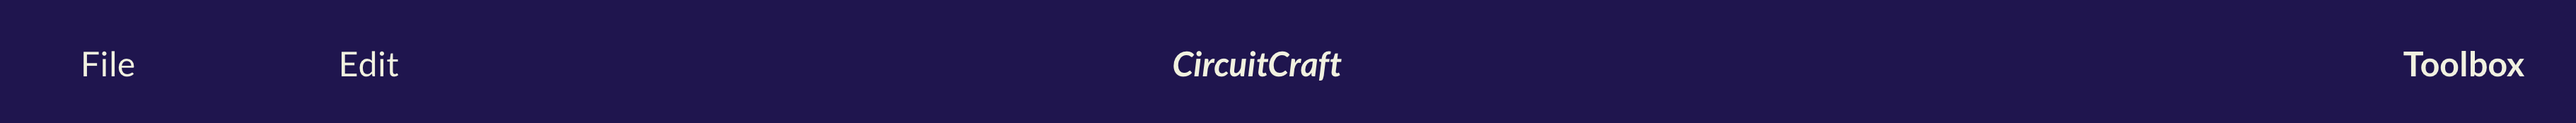
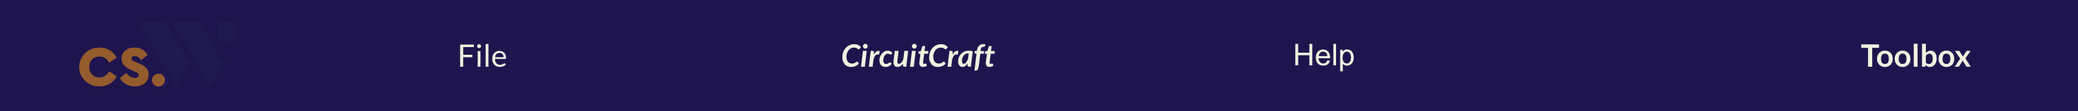
Structure styling helppage

diff --git a/public/helppage/helppage.html b/public/helppage/helppage.html
@@ -2,7 +2,7 @@
 <html lang="en" class="fancy">
 <head>
     <meta charset="UTF-8">
-    <title>WebARM: documentation</title>
+    <title>CircuitCraft]: documentation</title>
     <link rel="stylesheet" href="helppage_style.css">
     <link rel="stylesheet" href="helppage_highlighting.css">
 
@@ -79,75 +79,60 @@
                     In CircuitCraft, the page consists of three different areas:
                 </p>
                 <ol>
-                    <li>Menubar: Purple area at the top of the page<br>
-                        <img src="assests/menubar.png">
+                    <li><i>Menubar</i>: The <i>purple area</i> located at the very top of the page. It provides easy access to File operations and contains the link to CircuitCraft's help documentation page.<br><br>
+                        To interact with the dropdown menu: Click 'File' to open the menu. Click 'File' again to close the menu.<br>
+                        <img class="margin-top" src="assests/menubar.png" alt="Image of Menubar">
                     </li>
-                    <li>Canvas: Blue area to the left under the menubar<br>
-                        <img src="assests/canvas.png">
+                    <li><i>Canvas</i>: The <i>blue area</i> located directly beneath the MenuBar and to the left side of the screen.
+                        This is where you will draw your diagram. It supports interactive features such as moving and connecting elements to create circuits.<br>
+                        <img class="canvas_img margin-top" src="assests/canvas.png" alt="Image of the Canvas">
+
+                        <h4>Navigating around the Canvas</h4>
+                        <ul>
+                            <li>To move around the Canvas, click and drag on the canvas.<br>
+                                <video width="340" height="260" controls>
+                                    <source src="assests/move_canvas.mp4" type="video/mp4">
+                                </video>
+                            </li>
+                            <div class="zoom">
+                                <li class="margin-top">To zoom in and out of the Canvas, scroll up or down on mouse or pinch in and out on trackpads.
+                                </li>
+                                <video width="180" height="310" controls>
+                                    <source src="assests/zoom.mp4" type="video/mp4">
+                                </video>
+                            </div>
+                        </ul>
                     </li>
-                    <li>Toolbox: Yellow area to the right under the menubar<br>
-                        <img class="height" src="assests/toolbox.png">
+                    <li><i>Toolbox</i>: The <i>yellow area</i> located to the right of the screen, directly beneath the Menubar. 
+                        It contains a variety of interactable objects, including gates, junctions, inputs, outputs, and labels. <br><br>
+                        To interact with the Toolbox: Click on these elements to load them onto the Canvas to design and build your circuit diagrams.
+                        <br>
+                        <img class="height margin-top" src="assests/toolbox.png">
                     </li>
                 </ol>
 
-                <h3>Menubar</h3>
-                <p>
-                    Contains dropdown menu for 'File' and a link to the help page.
-                </p>
-
-                <p>
-                    To interact with the dropdown menu: Click 'File' to open the menu. Click 'File' again to close the menu.
-                </p>
-
-                <h3>Canvas</h3>
-                <p>
-                    This is where you will draw your diagram.
-                </p>
-
-                <h4>Navigating Around the Canvas</h4>
-                <ul>
-                    <li>To move around the Canvas: click and drag on the canvas<br>
-                        <video width="320" height="240" controls>
-                            <source src="assests/move_canvas.mp4" type="video/mp4">
-                        </video>
-                    </li>
-                    <li>To zoom in and out of the Canvas: scroll up or down on mouse or pinch in and out on trackpads
-                        <video width="220" height="320" controls>
-                            <source src="assests/zoom.mp4" type="video/mp4">
-                        </video>
-                    </li>
-                </ul>
-
-                <h3>Toolbox</h3>
-                <p>
-                    This contains interactable objects that are in the form of gates, junctions, inputs, outputs, and labels.
-                </p>
-
                 <div class="indented">
-                    <h4>Gates</h4>
-                    <p>
-                        <img src="assests/gates.png">
-                    </p>
-
-                    <h4>Junction</h4>
-                    <p>
-                        <img src="assests/junction.png">
-                    </p>
-
-                    <h4>Inputs, Outputs, and Labels</h4>
-                    <p>
-                        <img src="assests/editable_nodes.png">
-                    </p>
+                    <ol type="a">
+                        <li><i>Gates</i><br>
+                            <img class="margin-top" src="assests/gates.png">
+                        </li>
+                        <li><i>Junction</i><br>
+                            <img class="margin-top" src="assests/junction.png">
+                        </li>
+                        <li style="text-align: left;"><i>Inputs, Outputs, and Labels</i><br>
+                            <img class="margin-top" src="assests/editable_nodes.png">
+                        </li>
+                    </ol>
                 </div>
             </div>
 
             <div class="problem">
-                <div class="title">Adding and Removing from the Canvas</div>
+                <div class="title">Adding and removing canvas elements</div>
 
                 <h3>Adding</h3>
                 <p>
-                    To add objects to the canvas, click the object you want to add: gates, junctions, inputs, outputs, and labels from the toolbox. They will then add to the canvas, if you add multiple objects at a single time, they will overlap and hide behind each other.<br>
-                    <video width="320" height="240" controls>
+                    To add objects to the canvas, click on the item you want to add, such as gates, junctions, inputs, outputs, and labels from the toolbox. The selected object will then appear on the Canvas. Note that if you add multiple objects simultaneously, they will overlap, as they will stack on top of each other.<br>
+                    <video class="margin-top" width="320" height="240" controls>
                         <source src="assests/adding.mp4" type="video/mp4">
                     </video>
                 </p>
@@ -155,7 +140,7 @@
                 <h3>Removing</h3>
                 <p>
                     All objects on the canvas can be removed by selecting the object so that a rectangular outline appears around the object. Hit the 'backspace' or 'delete' key.<br>
-                    <video width="320" height="240" controls>
+                    <video class="margin-top" width="320" height="240" controls>
                         <source src="assests/remove.mp4" type="video/mp4">
                     </video>
                 </p>
@@ -166,7 +151,7 @@
 
                 <p>
                     Double click the default name such as "Input 1", "Output 1", "Label 1" and a textbox will surround the default text. To save the changes, simply click off the input, output, or label.<br>
-                    <video width="320" height="240" controls>
+                    <video class="margin-top" width="320" height="240" controls>
                         <source src="assests/rename.mp4" type="video/mp4">
                     </video>
                 </p>
@@ -177,7 +162,7 @@
 
                 <p>
                     All gates, inputs, and outputs have a black rectangle, clicking the end will begin the creation of a wire to connect the objects.<br>
-                    <video width="320" height="240" controls>
+                    <video class="margin-top" width="320" height="240" controls>
                         <source src="assests/connecting.mp4" type="video/mp4">
                     </video>
                 </p>
@@ -188,14 +173,14 @@
 
                 <p>
                     Objects: Click and drag the object. This can be more difficult with the junction due to it's size.<br>
-                    <video width="220" height="320" controls>
+                    <video class="margin-top" width="220" height="320" controls>
                         <source src="assests/move_object.mp4" type="video/mp4">
                     </video>
                 </p>
 
                 <p>
                     Wires: Click a wire (turning it dark grey) then click and drag to move the edge around.<br>
-                    <video width="320" height="240" controls>
+                    <video class="margin-top" width="320" height="240" controls>
                         <source src="assests/move_wire.mp4" type="video/mp4">
                     </video>
                 </p>
@@ -206,7 +191,7 @@
 
                 <p>
                     Selecting a gate will reveal the blue outline, click and drag the blue squares to make the object bigger or smaller. When a gate is placed on the canvas, it cannot be any smaller.<br>
-                    <video width="320" height="240" controls>
+                    <video class="margin-top" width="320" height="240" controls>
                         <source src="assests/resize.mp4" type="video/mp4">
                     </video>
                 </p>
@@ -217,7 +202,7 @@
 
                 <p>
                     Hovering over a gate or selecting a gate will reveal a purple handle, click the purple object to rotate the gate.<br>
-                    <video width="320" height="240" controls>
+                    <video class="margin-top" width="320" height="240" controls>
                         <source src="assests/rotate.mp4" type="video/mp4">
                     </video>
                 </p>
@@ -234,7 +219,7 @@
                     'Export PNG' will download a png which can be used to submit on canvas.
                 </p>
 
-                <video width="320" height="240" controls>
+                <video class="margin-top" width="320" height="240" controls>
                     <source src="assests/save_export.mp4" type="video/mp4">
                 </video>
             </div>
@@ -246,7 +231,7 @@
                     Under 'File' there is 'Open' which will allow you to upload a previously saved json file of the circuit diagram.
                 </p>
 
-                <video width="320" height="240" controls>
+                <video class="margin-top" width="320" height="240" controls>
                     <source src="assests/save_export.mp4" type="video/mp4">
                 </video>
             </div>

diff --git a/src/canvas/CircuitEdge.js b/src/canvas/CircuitEdge.js
@@ -41,7 +41,7 @@ const CircuitEdge = ({
         270: { source: { x: -5.5, y: 0 }, target: { x: -5.5, y: 13 } },
         180: { source: { x: -5.5, y: 1.5 }, target: { x: 5.5, y: 1.5 } },
         90: { source: { x: -5.5, y: 13 }, target: { x: -5.5, y: 1 } },
-        0: { source: { x: 6, y: 1.5 }, target: { x: -6, y: 1.5 } },
+        0: { source: { x: 0, y: 0 }, target: { x: 0, y: 0 } },
     };
 
 
@@ -53,7 +53,8 @@ const CircuitEdge = ({
         const targetAdjustment = rotationAdjustments[targetRotation] || { x: 0, y: 0 };
 
         if (sourceGateType === 'input'){
-            sourceAdjustment.source.y = 1.75;
+            sourceAdjustment.source.y = 1.7;
+            sourceAdjustment.source.x = 5.5;
         }
         if (sourceGateType === 'JunctionGateNode'){
             sourceAdjustment.source.x = 0;

diff --git a/src/menubar/Menubar.js b/src/menubar/Menubar.js
@@ -23,10 +23,10 @@ export default function Menubar(props) {
                                 exportPng = {props.exportPng}
                             />
                         }
-                        <li className='bar_edit' onClick={() => setEditDropdown(!editDropdown)}>Edit</li>
+                        {/* <li className='bar_edit' onClick={() => setEditDropdown(!editDropdown)}>Edit</li>
                         {editDropdown &&
                             <EditDropdown/>
-                        }
+                        } */}
                     </div>
                     <li className='bar_name'>CircuitCraft</li>
                     <li className='help_icon'>

diff --git a/src/menubar/Menubar.css b/src/menubar/Menubar.css
@@ -27,9 +27,10 @@
     display: flex;
     list-style: none;
     text-align: center;
-    width: 20%;
+    width: 15%;
     justify-content: space-evenly;
     align-items: center;
+    margin-right: 5em;
 }
 
 .bar_toolbox {
@@ -86,7 +87,7 @@
     width: 6rem;
     position: absolute;
     top: 10%; /* Adjust to be just below the parent li */
-    left: 4.25%; /* Align with the left edge of the parent li */
+    left: 17%; /* Align with the left edge of the parent li */
     list-style: none;
     text-align: start;
     z-index: 100;

diff --git a/public/helppage/helppage_style.css b/public/helppage/helppage_style.css
@@ -10,15 +10,37 @@
     display: none;
 }
 
-.problem ol li img {
-	width: 90%;
-	height: auto;
+.margin-top {
 	margin-top: 20px;
 }
 
-.problem ol li img.height {
-	width: 30%;
+.problem ol li img {
+	width: 90%;
 	height: auto;
+}
+
+.problem ol li img.height {
+	width: 18%;
+	height: auto;
+}
+
+.problem ol li img.canvas_img {
+	width: 70%;
+}
+
+.indented ol li img {
+	width: 22%;
+}
+
+.zoom {
+	display: flex;
+	position: relative;
+}
+
+.zoom video {
+	position: absolute;
+	top: -500%;
+	right: 5%;
 }
 
 .indented {
